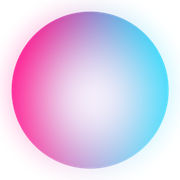
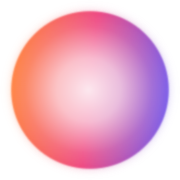
Restore orange pink and violet palette with matching gradient identity

diff --git a/src/click-word.css b/src/click-word.css
@@ -6,22 +6,23 @@
     padding:0; margin:0; border:0; background:none; border-radius:0;
     color:var(--gallery-ink); font:inherit; font-weight:inherit; letter-spacing:inherit;
     line-height:inherit; cursor:pointer; white-space:nowrap; touch-action:manipulation;
-    -webkit-tap-highlight-color:transparent; --click-pink:var(--accent-pink,#f52d9c); --click-lavender:var(--accent-lavender,#b49bd5); --click-cyan:var(--accent-cyan,#06a0c5);
+    -webkit-tap-highlight-color:transparent; --click-tangerine:var(--accent-tangerine,#ff7a35); --click-raspberry:var(--accent-raspberry,#ed3b78); --click-violet:var(--accent-violet,#7456e8);
 }
 .portfolio .click-word:focus-visible { outline:2px solid currentColor; outline-offset:8px; border-radius:2px; }
 .click-letters { display:inline-block; position:relative; transform-origin:50% 78%; scale:1; }
 .click-letter { display:inline-block; position:relative; }
-.click-ink { position:absolute; inset:-.12em; padding:.12em; color:transparent; -webkit-text-fill-color:transparent; background-image:var(--click-ribbon); background-origin:content-box; background-size:var(--word-width) 100%; background-position:calc(var(--word-width) * (var(--click-front) - 1) - var(--glyph-left)) 0; background-repeat:no-repeat; -webkit-background-clip:text; background-clip:text;
+.click-ink { position:absolute; inset:-.12em; padding:.12em; color:transparent; -webkit-text-fill-color:transparent; background-image:var(--click-ink-ribbon); background-origin:content-box; background-size:var(--word-width) 100%; background-position:calc(var(--word-width) * (var(--click-front) - 1) - var(--glyph-left)) 0; background-repeat:no-repeat; -webkit-background-clip:text; background-clip:text;
     /* Both the traveling fill and black erase move cl -> ic -> k. */
     clip-path:inset(0 clamp(0px,calc(var(--glyph-right) + .24em - (var(--word-width) + .24em) * var(--click-front)),calc(var(--glyph-width) + .24em)) 0 clamp(0px,calc((var(--word-width) + .24em) * var(--click-back) - var(--glyph-left)),calc(var(--glyph-width) + .24em)));
 }
 .click-line-track { position:absolute; left:0; right:0; bottom:-.1em; height:.09em; min-height:3px; overflow:hidden; pointer-events:none; }
 .click-line { display:block; width:100%; height:100%; background:var(--click-colors); }
-/* Pink, lavender, and logo-hued blue share the same palette in the line and text. */
+/* Original palette. Only the light-theme orange letter fill is deepened for contrast. */
 .click-word { --click-cycle:2000ms; --click-ease:cubic-bezier(.65,0,.35,1);
-    --click-forward:linear-gradient(90deg,var(--click-pink) 0 var(--click-first-stop,33.333%),var(--click-lavender) var(--click-first-stop,33.333%) var(--click-second-stop,66.666%),var(--click-cyan) var(--click-second-stop,66.666%) 100%);
-    --click-reverse:linear-gradient(90deg,var(--click-cyan) 0 var(--click-first-stop,33.333%),var(--click-lavender) var(--click-first-stop,33.333%) var(--click-second-stop,66.666%),var(--click-pink) var(--click-second-stop,66.666%) 100%);
+    --click-forward:linear-gradient(90deg,var(--click-tangerine) 0 var(--click-first-stop,33.333%),var(--click-raspberry) var(--click-first-stop,33.333%) var(--click-second-stop,66.666%),var(--click-violet) var(--click-second-stop,66.666%) 100%);
+    --click-reverse:linear-gradient(90deg,var(--click-violet) 0 var(--click-first-stop,33.333%),var(--click-raspberry) var(--click-first-stop,33.333%) var(--click-second-stop,66.666%),var(--click-tangerine) var(--click-second-stop,66.666%) 100%);
     --click-colors:var(--click-forward); --click-ribbon:var(--click-reverse);
+    --click-ink-ribbon:linear-gradient(90deg,var(--click-violet) 0 var(--click-first-stop,33.333%),var(--click-raspberry) var(--click-first-stop,33.333%) var(--click-second-stop,66.666%),var(--accent-ink-tangerine,#ec6b25) var(--click-second-stop,66.666%) 100%);
 }
 .click-word.is-running .click-line { animation:click-line-cycle var(--click-cycle) var(--click-ease) forwards; }
 .click-word.is-running .click-letter { animation:click-letter-hop 380ms var(--click-ease) both; animation-delay:calc(var(--letter-index)*70ms); }

diff --git a/src/App.tsx b/src/App.tsx
@@ -146,10 +146,10 @@ export default function App() {
         select(slug)
     }
     const style = { "--gallery-bg": theme === "dark" ? "#111111" : "#ffffff", "--gallery-ink": theme === "dark" ? "#ffffff" : "#171717", "--gallery-muted": theme === "dark" ? "#b5b5b5" : "#707070", "--gallery-line": theme === "dark" ? "#353535" : "#e5e5e5", "--gallery-surface": theme === "dark" ? "#1a1a1a" : "#ffffff" } as CSSProperties
-    return <div className={`portfolio ${selected ? "is-reading" : ""} ${hasOpenedProject.current ? "has-opened-project" : ""} ${!motion ? "motion-paused" : ""}`} style={style}>
+    return <div className={`portfolio ${selected ? "is-reading" : ""} ${hasOpenedProject.current ? "has-opened-project" : ""} ${!motion ? "motion-paused" : ""}`} style={style} data-theme={theme}>
         <div ref={gallery} className="gallery-scroll" inert={about} aria-label={selected ? "Choose another project" : "Portfolio"}>
             <header className="gallery-header">
-                <a className="wordmark" href="./" aria-label="Jaden Snyder home"><img src="/favicon.png" alt="" width="42" height="42" /></a>
+                <a className="wordmark" href="./" aria-label="Jaden Snyder home"><img src="/favicon.svg" alt="" width="42" height="42" /></a>
                 <nav aria-label="Main navigation"><button onClick={() => setAbout(true)}>About</button><a href={intro.links.find(l => l.label === "Resume")?.url} target="_blank" rel="noreferrer">Resume</a><a className="contact-link" href="mailto:jadenpsnyder02@gmail.com"><span>Let’s talk</span><SiteIcon name="external" size={13} /></a></nav>
             </header>
             <section className="gallery-intro">

diff --git a/work/agent-design-operations/index.html b/work/agent-design-operations/index.html
@@ -1,2 +1,3 @@
 <!doctype html>
-<html lang="en" data-page="case-study"><head><meta charset="UTF-8"/><meta name="viewport" content="width=device-width, initial-scale=1.0"/><title>Rokt Design Agents — Jaden Snyder</title><meta name="description" content="Built an autonomous design agent and a dashboard to monitor its work across more than 5,000 accounts."/><link rel="icon" href="../../favicon.ico"/><link rel="stylesheet" href="https://fonts.googleapis.com/css2?family=Plus+Jakarta+Sans:wght@400..800&amp;display=swap"/></head><body><div id="root" data-slug="agent-design-operations"></div><script type="module" src="../../src/caseStudyMain.tsx"></script></body></html>
+<html lang="en" data-page="case-study"><head><meta charset="UTF-8"/><meta name="viewport" content="width=device-width, initial-scale=1.0"/><title>Rokt Design Agents — Jaden Snyder</title><meta name="description" content="Built an autonomous design agent and a dashboard to monitor its work across more than 5,000 accounts."/><link rel="icon" href="../../favicon.ico"/><link rel="stylesheet" href="https://fonts.googleapis.com/css2?family=Plus+Jakarta+Sans:wght@400..800&amp;display=swap"/><link rel="icon" type="image/svg+xml" href="../../favicon.svg" />
+</head><body><div id="root" data-slug="agent-design-operations"></div><script type="module" src="../../src/caseStudyMain.tsx"></script></body></html>

diff --git a/work/kalshi-dynamic-ads/index.html b/work/kalshi-dynamic-ads/index.html
@@ -1,2 +1,3 @@
 <!doctype html>
-<html lang="en" data-page="case-study"><head><meta charset="UTF-8"/><meta name="viewport" content="width=device-width, initial-scale=1.0"/><title>Kalshi Dynamic Advertising — Jaden Snyder</title><meta name="description" content="An advertisement that updates as the prediction market moves."/><link rel="icon" href="../../favicon.ico"/><link rel="stylesheet" href="https://fonts.googleapis.com/css2?family=Plus+Jakarta+Sans:wght@400..800&amp;display=swap"/></head><body><div id="root" data-slug="kalshi-dynamic-ads"></div><script type="module" src="../../src/caseStudyMain.tsx"></script></body></html>
+<html lang="en" data-page="case-study"><head><meta charset="UTF-8"/><meta name="viewport" content="width=device-width, initial-scale=1.0"/><title>Kalshi Dynamic Advertising — Jaden Snyder</title><meta name="description" content="An advertisement that updates as the prediction market moves."/><link rel="icon" href="../../favicon.ico"/><link rel="stylesheet" href="https://fonts.googleapis.com/css2?family=Plus+Jakarta+Sans:wght@400..800&amp;display=swap"/><link rel="icon" type="image/svg+xml" href="../../favicon.svg" />
+</head><body><div id="root" data-slug="kalshi-dynamic-ads"></div><script type="module" src="../../src/caseStudyMain.tsx"></script></body></html>

diff --git a/work/thought-atlas/index.html b/work/thought-atlas/index.html
@@ -1,2 +1,3 @@
 <!doctype html>
-<html lang="en" data-page="case-study"><head><meta charset="UTF-8"/><meta name="viewport" content="width=device-width, initial-scale=1.0"/><title>Thought Atlas — Jaden Snyder</title><meta name="description" content="A personal interaction and visual design study by Jaden Snyder."/><link rel="icon" href="../../favicon.ico"/><link rel="stylesheet" href="https://fonts.googleapis.com/css2?family=Plus+Jakarta+Sans:wght@400..800&amp;display=swap"/></head><body><div id="root" data-slug="thought-atlas"></div><script type="module" src="../../src/caseStudyMain.tsx"></script></body></html>
+<html lang="en" data-page="case-study"><head><meta charset="UTF-8"/><meta name="viewport" content="width=device-width, initial-scale=1.0"/><title>Thought Atlas — Jaden Snyder</title><meta name="description" content="A personal interaction and visual design study by Jaden Snyder."/><link rel="icon" href="../../favicon.ico"/><link rel="stylesheet" href="https://fonts.googleapis.com/css2?family=Plus+Jakarta+Sans:wght@400..800&amp;display=swap"/><link rel="icon" type="image/svg+xml" href="../../favicon.svg" />
+</head><body><div id="root" data-slug="thought-atlas"></div><script type="module" src="../../src/caseStudyMain.tsx"></script></body></html>

diff --git a/work/pantry-notes/index.html b/work/pantry-notes/index.html
@@ -1,2 +1,3 @@
 <!doctype html>
-<html lang="en" data-page="case-study"><head><meta charset="UTF-8"/><meta name="viewport" content="width=device-width, initial-scale=1.0"/><title>Pantry Notes — Jaden Snyder</title><meta name="description" content="A personal interaction and visual design study by Jaden Snyder."/><link rel="icon" href="../../favicon.ico"/><link rel="stylesheet" href="https://fonts.googleapis.com/css2?family=Plus+Jakarta+Sans:wght@400..800&amp;display=swap"/></head><body><div id="root" data-slug="pantry-notes"></div><script type="module" src="../../src/caseStudyMain.tsx"></script></body></html>
+<html lang="en" data-page="case-study"><head><meta charset="UTF-8"/><meta name="viewport" content="width=device-width, initial-scale=1.0"/><title>Pantry Notes — Jaden Snyder</title><meta name="description" content="A personal interaction and visual design study by Jaden Snyder."/><link rel="icon" href="../../favicon.ico"/><link rel="stylesheet" href="https://fonts.googleapis.com/css2?family=Plus+Jakarta+Sans:wght@400..800&amp;display=swap"/><link rel="icon" type="image/svg+xml" href="../../favicon.svg" />
+</head><body><div id="root" data-slug="pantry-notes"></div><script type="module" src="../../src/caseStudyMain.tsx"></script></body></html>

diff --git a/work/build-view/index.html b/work/build-view/index.html
@@ -1,2 +1,3 @@
 <!doctype html>
-<html lang="en" data-page="case-study"><head><meta charset="UTF-8"/><meta name="viewport" content="width=device-width, initial-scale=1.0"/><title>Build View — Jaden Snyder</title><meta name="description" content="A personal interaction and visual design study by Jaden Snyder."/><link rel="icon" href="../../favicon.ico"/><link rel="stylesheet" href="https://fonts.googleapis.com/css2?family=Plus+Jakarta+Sans:wght@400..800&amp;display=swap"/></head><body><div id="root" data-slug="build-view"></div><script type="module" src="../../src/caseStudyMain.tsx"></script></body></html>
+<html lang="en" data-page="case-study"><head><meta charset="UTF-8"/><meta name="viewport" content="width=device-width, initial-scale=1.0"/><title>Build View — Jaden Snyder</title><meta name="description" content="A personal interaction and visual design study by Jaden Snyder."/><link rel="icon" href="../../favicon.ico"/><link rel="stylesheet" href="https://fonts.googleapis.com/css2?family=Plus+Jakarta+Sans:wght@400..800&amp;display=swap"/><link rel="icon" type="image/svg+xml" href="../../favicon.svg" />
+</head><body><div id="root" data-slug="build-view"></div><script type="module" src="../../src/caseStudyMain.tsx"></script></body></html>

diff --git a/src/gallery.css b/src/gallery.css
@@ -1,5 +1,6 @@
 html[data-page="home"] #root { overflow:hidden; }
-.portfolio { --accent-pink:#f52d9c; --accent-lavender:#b49bd5; --accent-cyan:#06a0c5; --accent-ink-pink:#c51e82; --accent-ink-lavender:#7954b5; --accent-ink-cyan:#06a0c5; --homepage-primary:#db1986; --homepage-primary-hover:#bd1475; height:100dvh; background:var(--gallery-bg); color:var(--gallery-ink); }
+.portfolio { --accent-tangerine:#ff7a35; --accent-raspberry:#ed3b78; --accent-violet:#7456e8; --accent-ink-tangerine:#ec6b25; --homepage-primary:var(--accent-violet); --homepage-primary-hover:#6343d5; height:100dvh; background:var(--gallery-bg); color:var(--gallery-ink); }
+.portfolio[data-theme="dark"] { --accent-ink-tangerine:var(--accent-tangerine); }
 .portfolio a { color:inherit; text-decoration:none; -webkit-tap-highlight-color:transparent; }
 .portfolio button { color:inherit; font:inherit; cursor:pointer; -webkit-tap-highlight-color:transparent; }
 .portfolio a:focus-visible,.portfolio button:focus-visible { outline:3px solid var(--gallery-ink); outline-offset:5px; }

diff --git a/work/shoppable-pitching-platform/index.html b/work/shoppable-pitching-platform/index.html
@@ -37,7 +37,8 @@
             crossorigin
         />
         <link href="https://fonts.googleapis.com/css2?family=Plus+Jakarta+Sans:wght@400..800&display=swap" rel="stylesheet" />
-    </head>
+    <link rel="icon" type="image/svg+xml" href="../../favicon.svg" />
+</head>
     <body>
         <div id="root" data-slug="shoppable-pitching-platform"></div>
         <script type="module" src="/src/caseStudyMain.tsx"></script>

diff --git a/work/shoppable-config/index.html b/work/shoppable-config/index.html
@@ -37,7 +37,8 @@
             crossorigin
         />
         <link href="https://fonts.googleapis.com/css2?family=Plus+Jakarta+Sans:wght@400..800&display=swap" rel="stylesheet" />
-    </head>
+    <link rel="icon" type="image/svg+xml" href="../../favicon.svg" />
+</head>
     <body>
         <div id="root" data-slug="shoppable-config"></div>
         <script type="module" src="/src/caseStudyMain.tsx"></script>

diff --git a/work/branded-layouts/index.html b/work/branded-layouts/index.html
@@ -37,7 +37,8 @@
             crossorigin
         />
         <link href="https://fonts.googleapis.com/css2?family=Plus+Jakarta+Sans:wght@400..800&display=swap" rel="stylesheet" />
-    </head>
+    <link rel="icon" type="image/svg+xml" href="../../favicon.svg" />
+</head>
     <body>
         <div id="root" data-slug="branded-layouts"></div>
         <script type="module" src="/src/caseStudyMain.tsx"></script>

diff --git a/work/mcdonalds-kiosk/index.html b/work/mcdonalds-kiosk/index.html
@@ -37,7 +37,8 @@
             crossorigin
         />
         <link href="https://fonts.googleapis.com/css2?family=Plus+Jakarta+Sans:wght@400..800&display=swap" rel="stylesheet" />
-    </head>
+    <link rel="icon" type="image/svg+xml" href="../../favicon.svg" />
+</head>
     <body>
         <div id="root" data-slug="mcdonalds-kiosk"></div>
         <script type="module" src="/src/caseStudyMain.tsx"></script>
